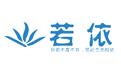
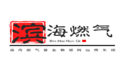
新建分支用以区别两个版本

Changed region(s): [[0.0248, 0.2667, 0.9669, 0.6933]]

diff --git a/sql/ruoyi.html b/sql/ruoyi.html
@@ -2,7 +2,7 @@
 <!DOCTYPE html>
 <html lang='en' xmlns='http://www.w3.org/1999/xhtml' >
 <head>
-<title>RuoYi</title>
+<title>Charles</title>
 <meta http-equiv='Content-Type' content='text/html; charset=UTF-8'/>
 <meta name="viewport" content="width=device-width, initial-scale=1, shrink-to-fit=no">
 <link rel="stylesheet" href="https://maxcdn.bootstrapcdn.com/bootstrap/4.0.0-alpha.6/css/bootstrap.min.css" integrity="sha384-rwoIResjU2yc3z8GV/NPeZWAv56rSmLldC3R/AZzGRnGxQQKnKkoFVhFQhNUwEyJ" crossorigin="anonymous">
@@ -238,7 +238,7 @@ body {
 <!-- == Legend == -->
 <g transform='translate(10,10)'>
   <rect x='10' y='10' width='330' height='56' rx='6' ry='6' style='fill:url(#legendGradient);filter:url(#shadow);'/> 
-  <text x='20' y='43'>RuoYi</text> 
+  <text x='20' y='43'>Charles</text>
   <text x='20' y='57' style='fill:#aaaaaa; font-size:11px;'><tspan>Move the mouse over tables &amp; columns to read the comments.</tspan></text> 
 <a xlink:href='https://www.dbschema.com'> <path class='logo' d='m 32.309685,20.963194 c 0.411708,4.732616 -4.298055,7.925636 -8.723583,6.970196 -6.616967,1.8448 -2.656457,-6.434594 -3.911969,-10.01566 -2.15469,-5.89407 6.06247,-3.508505 9.167655,-2.863689 2.199228,1.054873 3.389343,3.582089 3.467897,5.909153 z m -3.720955,0.01451 c 0.434195,-4.414565 -7.644142,-5.37533 -5.137307,0.107342 -1.812268,5.992146 5.532698,4.379388 5.137307,-0.107342 z' /> <path class='logo' d='m 44.329732,23.050637 c 0.850982,5.097305 -5.250434,4.558924 -7.144836,4.752415 -6.418993,1.64391 -1.872992,-7.49274 -3.541914,-10.942842 -2.499646,-3.817859 5.939283,-4.402698 3.538545,-0.13612 -1.287874,4.989123 4.215411,-1.154796 5.956717,2.809584 0.840273,0.970849 1.168829,2.272413 1.191488,3.516963 z m -3.519477,-0.09299 c -1.398216,-5.518069 -6.361061,2.717467 -0.984368,1.810718 0.686994,-0.30388 1.029454,-1.087638 0.984368,-1.810718 z' /> <path class='logo' d='m 52.234961,23.301163 c 0.954818,5.035675 -8.606408,6.284861 -6.262292,1.674914 6.000358,-1.604717 -5.188764,-7.870044 1.75972,-10.384908 2.288682,-3.253567 6.399287,3.075831 2.304111,2.48058 -2.124941,2.016587 2.688777,3.89858 2.198472,6.229403 z' /> <path class='logo' d='m 60.204336,21.349224 c -4.894917,-1.916474 -3.458707,5.391212 0.347494,3.37231 2.120589,6.821713 -10.599623,1.664746 -6.906229,-3.691132 0.354172,-3.663246 9.875349,-4.711252 6.558735,0.318822 z' /> <path class='logo' d='m 71.730617,20.654299 c 0.0013,2.316285 0.190131,4.655698 0.07825,6.958009 -6.532419,3.303565 -0.660423,-8.722256 -6.009639,-5.821653 -0.818815,2.024533 1.726403,6.746337 -1.95327,6.005484 -3.458346,-1.137537 -0.696275,-7.713407 -1.833252,-10.994208 -2.308916,-3.710131 5.93704,-4.164951 3.518609,0.0063 -1.462376,6.166445 5.169629,-2.857523 6.19931,3.846079 z' /> <path class='logo' d='m 82.245738,22.378957 c -0.24581,2.448954 -9.386766,0.8867 -3.885979,2.877055 3.312576,-2.99157 5.250902,3.334514 0.482647,2.665545 -7.415384,1.492275 -7.823196,-11.597641 -0.275476,-10.032117 2.068161,0.391458 3.682204,2.408824 3.678808,4.489517 z m -3.414436,-0.578473 c -1.124703,-4.072004 -5.087405,2.125488 -0.316922,0.156453 z' /> <path class='logo' d='m 98.936899,27.222794 c -4.73541,2.718339 -3.1239,-3.406557 -3.92611,-6.050494 -4.66985,-1.438471 0.21621,6.932413 -3.41219,6.438039 -4.46096,1.160054 -0.22824,-5.774711 -3.31526,-6.700429 -3.410722,1.082173 1.04451,9.536575 -4.745091,6.372895 0.746632,-3.355214 -2.776394,-10.269232 3.034971,-9.038963 -0.058,2.544602 5.00686,-2.785359 6.00342,1.37844 3.42021,-4.316316 7.851251,0.524966 6.24018,4.690538 0.0379,0.969988 0.0954,1.940046 0.12008,2.909974 z' /> <path class='logo' d='m 110.47859,22.686058 c 0.91826,2.682088 0.13016,6.890551 -3.0725,4.397004 -1.63641,1.077877 -7.664291,0.541832 -7.09365,-4.114836 -0.907891,-4.692933 5.14729,-5.625578 7.24058,-4.40354 3.85932,-1.686263 3.13176,1.271515 2.92557,4.121372 z m -3.12695,0.0704 c -1.46278,-5.460062 -6.61615,2.5826 -1.08221,1.782003 0.70431,-0.272594 1.13111,-1.037444 1.08221,-1.782003 z' /> </a>
 </g>

diff --git a/charles-admin/src/main/resources/templates/login.html b/charles-admin/src/main/resources/templates/login.html
@@ -3,13 +3,13 @@
 <head>
     <meta charset="utf-8">
     <meta name="viewport" content="width=device-width, initial-scale=1.0, maximum-scale=1.0">
-    <title>登录若依系统</title>
-    <meta name="description" content="若依后台管理框架">
+    <title>登录滨海燃气营业物联网远传系统</title>
+    <meta name="description" content="滨海燃气营业物联网远传系统后台管理框架">
     <link href="../static/css/bootstrap.min.css" th:href="@{/css/bootstrap.min.css}" rel="stylesheet"/>
     <link href="../static/css/font-awesome.min.css" th:href="@{/css/font-awesome.min.css}" rel="stylesheet"/>
     <link href="../static/css/style.css" th:href="@{/css/style.css}" rel="stylesheet"/>
     <link href="../static/css/login.min.css" th:href="@{/css/login.min.css}" rel="stylesheet"/>
-    <link href="../static/ruoyi/css/ry-ui.css" th:href="@{/ruoyi/css/ry-ui.css?v=4.4.0}" rel="stylesheet"/>
+    <link href="../static/charles/css/ry-ui.css" th:href="@{/charles/css/ry-ui.css?v=4.4.0}" rel="stylesheet"/>
     <!-- 360浏览器急速模式 -->
     <meta name="renderer" content="webkit">
     <!-- 避免IE使用兼容模式 -->
@@ -26,10 +26,10 @@
             <div class="col-sm-7">
                 <div class="signin-info">
                     <div class="logopanel m-b">
-                        <h1><img alt="[ 若依 ]" src="../static/ruoyi.png" th:src="@{/ruoyi.png}"></h1>
+                        <h1><img alt="[ 滨海燃气 ]" src="../static/ruoyi.png" th:src="@{/ruoyi.png}"></h1>
                     </div>
                     <div class="m-b"></div>
-                    <h4>欢迎使用 <strong>若依 后台管理系统</strong></h4>
+                    <h4>欢迎使用 <strong>滨海燃气营业物联网远传系统 后台管理系统</strong></h4>
                     <ul class="m-b">
                         <li><i class="fa fa-arrow-circle-o-right m-r-xs"></i> SpringBoot</li>
                         <li><i class="fa fa-arrow-circle-o-right m-r-xs"></i> Mybatis</li>
@@ -43,7 +43,7 @@
             <div class="col-sm-5">
                 <form id="signupForm" autocomplete="off">
                     <h4 class="no-margins">登录：</h4>
-                    <p class="m-t-md">你若不离不弃，我必生死相依</p>
+                    <p class="m-t-md">滨海燃气营业物联网远传系统</p>
                     <input type="text"     name="username" class="form-control uname"     placeholder="用户名" value="admin"    />
                     <input type="password" name="password" class="form-control pword"     placeholder="密码"   value="admin123" />
 					<div class="row m-t" th:if="${captchaEnabled==true}">
@@ -78,7 +78,7 @@
 <script src="../static/ajax/libs/validate/messages_zh.min.js" th:src="@{/ajax/libs/validate/messages_zh.min.js}"></script>
 <script src="../static/ajax/libs/layer/layer.min.js" th:src="@{/ajax/libs/layer/layer.min.js}"></script>
 <script src="../static/ajax/libs/blockUI/jquery.blockUI.js" th:src="@{/ajax/libs/blockUI/jquery.blockUI.js}"></script>
-<script src="../static/ruoyi/js/ry-ui.js" th:src="@{/ruoyi/js/ry-ui.js?v=4.4.0}"></script>
-<script src="../static/ruoyi/login.js" th:src="@{/ruoyi/login.js}"></script>
+<script src="../static/charles/js/ry-ui.js" th:src="@{/charles/js/ry-ui.js?v=4.4.0}"></script>
+<script src="../static/charles/login.js" th:src="@{/charles/login.js}"></script>
 </body>
 </html>

diff --git a/charles-admin/src/main/resources/templates/register.html b/charles-admin/src/main/resources/templates/register.html
@@ -3,13 +3,13 @@
 <head>
     <meta charset="utf-8">
     <meta name="viewport" content="width=device-width, initial-scale=1.0, maximum-scale=1.0">
-    <title>注册若依系统</title>
-    <meta name="description" content="若依后台管理框架">
+    <title>注册滨海燃气营业物联网远传系统</title>
+    <meta name="description" content="滨海燃气营业物联网远传系统后台管理框架">
     <link href="../static/css/bootstrap.min.css" th:href="@{/css/bootstrap.min.css}" rel="stylesheet"/>
     <link href="../static/css/font-awesome.min.css" th:href="@{/css/font-awesome.min.css}" rel="stylesheet"/>
     <link href="../static/css/style.css" th:href="@{/css/style.css}" rel="stylesheet"/>
     <link href="../static/css/login.min.css" th:href="@{/css/login.min.css}" rel="stylesheet"/>
-    <link href="../static/ruoyi/css/ry-ui.css" th:href="@{/ruoyi/css/ry-ui.css?v=4.4.0}" rel="stylesheet"/>
+    <link href="../static/charles/css/ry-ui.css" th:href="@{/charles/css/ry-ui.css?v=4.4.0}" rel="stylesheet"/>
     <!-- 360浏览器急速模式 -->
     <meta name="renderer" content="webkit">
     <!-- 避免IE使用兼容模式 -->
@@ -23,10 +23,10 @@
             <div class="col-sm-7">
                 <div class="signin-info">
                     <div class="logopanel m-b">
-                        <h1><img alt="[ 若依 ]" src="../static/ruoyi.png" th:src="@{/ruoyi.png}"></h1>
+                        <h1><img alt="[ 滨海燃气 ]" src="../static/ruoyi.png" th:src="@{/ruoyi.png}"></h1>
                     </div>
                     <div class="m-b"></div>
-                    <h4>欢迎使用 <strong>若依 后台管理系统</strong></h4>
+                    <h4>欢迎使用 <strong>滨海燃气营业物联网远传系统 后台管理系统</strong></h4>
                     <ul class="m-b">
                         <li><i class="fa fa-arrow-circle-o-right m-r-xs"></i> SpringBoot</li>
                         <li><i class="fa fa-arrow-circle-o-right m-r-xs"></i> Mybatis</li>
@@ -64,7 +64,7 @@
         </div>
         <div class="signup-footer">
             <div class="pull-left">
-                &copy; 2019 All Rights Reserved. RuoYi <br>
+                &copy; 2019 All Rights Reserved. 滨海燃气 <br>
             </div>
         </div>
     </div>
@@ -77,7 +77,7 @@
 <script src="../static/ajax/libs/validate/messages_zh.min.js" th:src="@{/ajax/libs/validate/messages_zh.min.js}"></script>
 <script src="../static/ajax/libs/layer/layer.min.js" th:src="@{/ajax/libs/layer/layer.min.js}"></script>
 <script src="../static/ajax/libs/blockUI/jquery.blockUI.js" th:src="@{/ajax/libs/blockUI/jquery.blockUI.js}"></script>
-<script src="../static/ruoyi/js/ry-ui.js" th:src="@{/ruoyi/js/ry-ui.js?v=4.4.0}"></script>
-<script src="../static/ruoyi/register.js" th:src="@{/ruoyi/register.js}"></script>
+<script src="../static/charles/js/ry-ui.js" th:src="@{/charles/js/ry-ui.js?v=4.4.0}"></script>
+<script src="../static/charles/register.js" th:src="@{/charles/register.js}"></script>
 </body>
 </html>

diff --git a/charles-admin/src/main/resources/templates/index.html b/charles-admin/src/main/resources/templates/index.html
@@ -4,7 +4,7 @@
     <meta charset="utf-8">
     <meta name="viewport" content="width=device-width, initial-scale=1.0">
     <meta name="renderer" content="webkit">
-    <title>若依系统首页</title>
+    <title>滨海燃气营业物联网远传系统首页</title>
     <!-- 避免IE使用兼容模式 -->
  	<meta http-equiv="X-UA-Compatible" content="IE=edge">
     <link th:href="@{favicon.ico}" rel="shortcut icon"/>
@@ -14,7 +14,7 @@
     <link th:href="@{/css/animate.css}" rel="stylesheet"/>
     <link th:href="@{/css/style.css}" rel="stylesheet"/>
     <link th:href="@{/css/skins.css}" rel="stylesheet"/>
-    <link th:href="@{/ruoyi/css/ry-ui.css?v=4.4.0}" rel="stylesheet"/>
+    <link th:href="@{/charles/css/ry-ui.css?v=4.4.0}" rel="stylesheet"/>
 </head>
 <body class="fixed-sidebar full-height-layout gray-bg" style="overflow: hidden">
 <div id="wrapper">
@@ -26,7 +26,7 @@
         </div>
         <a th:href="@{/index}">
             <li class="logo hidden-xs">
-                <span class="logo-lg">RuoYi</span>
+                <span class="logo-lg">滨海燃气</span>
             </li>
          </a>
         <div class="sidebar-collapse">
@@ -235,7 +235,7 @@
                     th:src="@{/system/main}" frameborder="0" seamless></iframe>
         </div>
         <div class="footer">
-            <div class="pull-right">© [[${copyrightYear}]] RuoYi Copyright </div>
+            <div class="pull-right">© [[${copyrightYear}]] 滨海燃气 Copyright </div>
         </div>
     </div>
     <!--右侧部分结束-->
@@ -248,9 +248,9 @@
 <script th:src="@{/js/jquery.contextMenu.min.js}"></script>
 <script th:src="@{/ajax/libs/blockUI/jquery.blockUI.js}"></script>
 <script th:src="@{/ajax/libs/layer/layer.min.js}"></script>
-<script th:src="@{/ruoyi/js/ry-ui.js?v=4.4.0}"></script>
-<script th:src="@{/ruoyi/js/common.js?v=4.4.0}"></script>
-<script th:src="@{/ruoyi/index.js}"></script>
+<script th:src="@{/charles/js/ry-ui.js?v=4.4.0}"></script>
+<script th:src="@{/charles/js/common.js?v=4.4.0}"></script>
+<script th:src="@{/charles/index.js}"></script>
 <script th:src="@{/ajax/libs/fullscreen/jquery.fullscreen.js}"></script>
 <script th:inline="javascript">
 var ctx = [[@{/}]];

diff --git a/charles-admin/src/main/resources/templates/include.html b/charles-admin/src/main/resources/templates/include.html
@@ -13,7 +13,7 @@
 	<link th:href="@{/ajax/libs/bootstrap-table/bootstrap-table.min.css?v=20200727}" rel="stylesheet"/>
 	<link th:href="@{/css/animate.css}" rel="stylesheet"/>
 	<link th:href="@{/css/style.css?v=20200727}" rel="stylesheet"/>
-	<link th:href="@{/ruoyi/css/ry-ui.css?v=4.4.0}" rel="stylesheet"/>
+	<link th:href="@{/charles/css/ry-ui.css?v=4.4.0}" rel="stylesheet"/>
 </head>
 
 <!-- 通用JS -->
@@ -36,8 +36,8 @@
     <script th:src="@{/ajax/libs/iCheck/icheck.min.js}"></script>
 	<script th:src="@{/ajax/libs/layer/layer.min.js}"></script>
 	<script th:src="@{/ajax/libs/layui/layui.js}"></script>
-	<script th:src="@{/ruoyi/js/common.js?v=4.4.0}"></script>
-	<script th:src="@{/ruoyi/js/ry-ui.js?v=4.4.0}"></script>
+	<script th:src="@{/charles/js/common.js?v=4.4.0}"></script>
+	<script th:src="@{/charles/js/ry-ui.js?v=4.4.0}"></script>
 	<script th:inline="javascript"> var ctx = [[@{/}]]; </script>
 </div>
 

diff --git a/charles-admin/src/main/resources/templates/error/404.html b/charles-admin/src/main/resources/templates/error/404.html
@@ -3,7 +3,7 @@
 <head>
     <meta charset="utf-8">
     <meta name="viewport" content="width=device-width, initial-scale=1.0">
-    <title>RuoYi - 404</title>
+    <title>滨海燃气 - 404</title>
     <link th:href="@{/css/bootstrap.min.css}" rel="stylesheet"/>
     <link th:href="@{/css/animate.css}" rel="stylesheet"/>
     <link th:href="@{/css/style.css}" rel="stylesheet"/>

diff --git a/charles-admin/src/main/resources/templates/error/500.html b/charles-admin/src/main/resources/templates/error/500.html
@@ -3,7 +3,7 @@
 <head>
     <meta charset="utf-8">
     <meta name="viewport" content="width=device-width, initial-scale=1.0">
-    <title>RuoYi - 500</title>
+    <title>滨海燃气 - 500</title>
 	<link th:href="@{/css/bootstrap.min.css}" rel="stylesheet"/>
     <link th:href="@{/css/animate.css}" rel="stylesheet"/>
     <link th:href="@{/css/style.css}" rel="stylesheet"/>

diff --git a/charles-admin/src/main/resources/templates/error/business.html b/charles-admin/src/main/resources/templates/error/business.html
@@ -3,7 +3,7 @@
 <head>
     <meta charset="utf-8">
     <meta name="viewport" content="width=device-width, initial-scale=1.0">
-    <title>RuoYi - 403</title>
+    <title>滨海燃气 - 403</title>
 	<link th:href="@{/css/bootstrap.min.css}" rel="stylesheet"/>
     <link th:href="@{/css/animate.css}" rel="stylesheet"/>
     <link th:href="@{/css/style.css}" rel="stylesheet"/>

diff --git a/charles-admin/src/main/resources/templates/error/unauth.html b/charles-admin/src/main/resources/templates/error/unauth.html
@@ -3,7 +3,7 @@
 <head>
     <meta charset="utf-8">
     <meta name="viewport" content="width=device-width, initial-scale=1.0">
-    <title>RuoYi - 403</title>
+    <title>滨海燃气 - 403</title>
 	<link th:href="@{/css/bootstrap.min.css}" rel="stylesheet"/>
     <link th:href="@{/css/animate.css}" rel="stylesheet"/>
     <link th:href="@{/css/style.css}" rel="stylesheet"/>

diff --git a/charles-admin/src/main/resources/static/css/skins.css b/charles-admin/src/main/resources/static/css/skins.css
@@ -1,6 +1,6 @@
 /*
  *
- *   SKIN blue 若依管理系统
+ *   SKIN blue 滨海燃气营业物联网远传后台管理系统
  *   NAME - blue/green/purple/red/yellow
  *
 */
@@ -781,7 +781,7 @@
 
 /*
  *
- *   侧边栏主题 若依管理系统
+ *   侧边栏主题 滨海燃气营业物联网远传后台管理系统
  *   NAME - .theme-dark/theme-light
  *
 */

diff --git a/charles-admin/src/main/resources/templates/skin.html b/charles-admin/src/main/resources/templates/skin.html
@@ -140,7 +140,7 @@
 </ul>
 </body>
 <script th:src="@{/js/jquery.min.js}"></script>
-<script th:src="@{/ruoyi/js/common.js?v=4.4.0}"></script>
+<script th:src="@{/charles/js/common.js?v=4.4.0}"></script>
 <script type="text/javascript">
 //皮肤样式列表
 var skins = ["skin-blue", "skin-green", "skin-purple", "skin-red", "skin-yellow"];

diff --git a/charles-admin/src/main/resources/static/ajax/libs/fullscreen/jquery.fullscreen.js b/charles-admin/src/main/resources/static/ajax/libs/fullscreen/jquery.fullscreen.js
@@ -1,7 +1,7 @@
 /**
  * 基于jQuery FullScreen修改
  * 新增支持IE全屏显示
- * Copyright (c) 2019 ruoyi
+ * Copyright (c) 2019 charles
  */
 (function(jQuery) {
     
